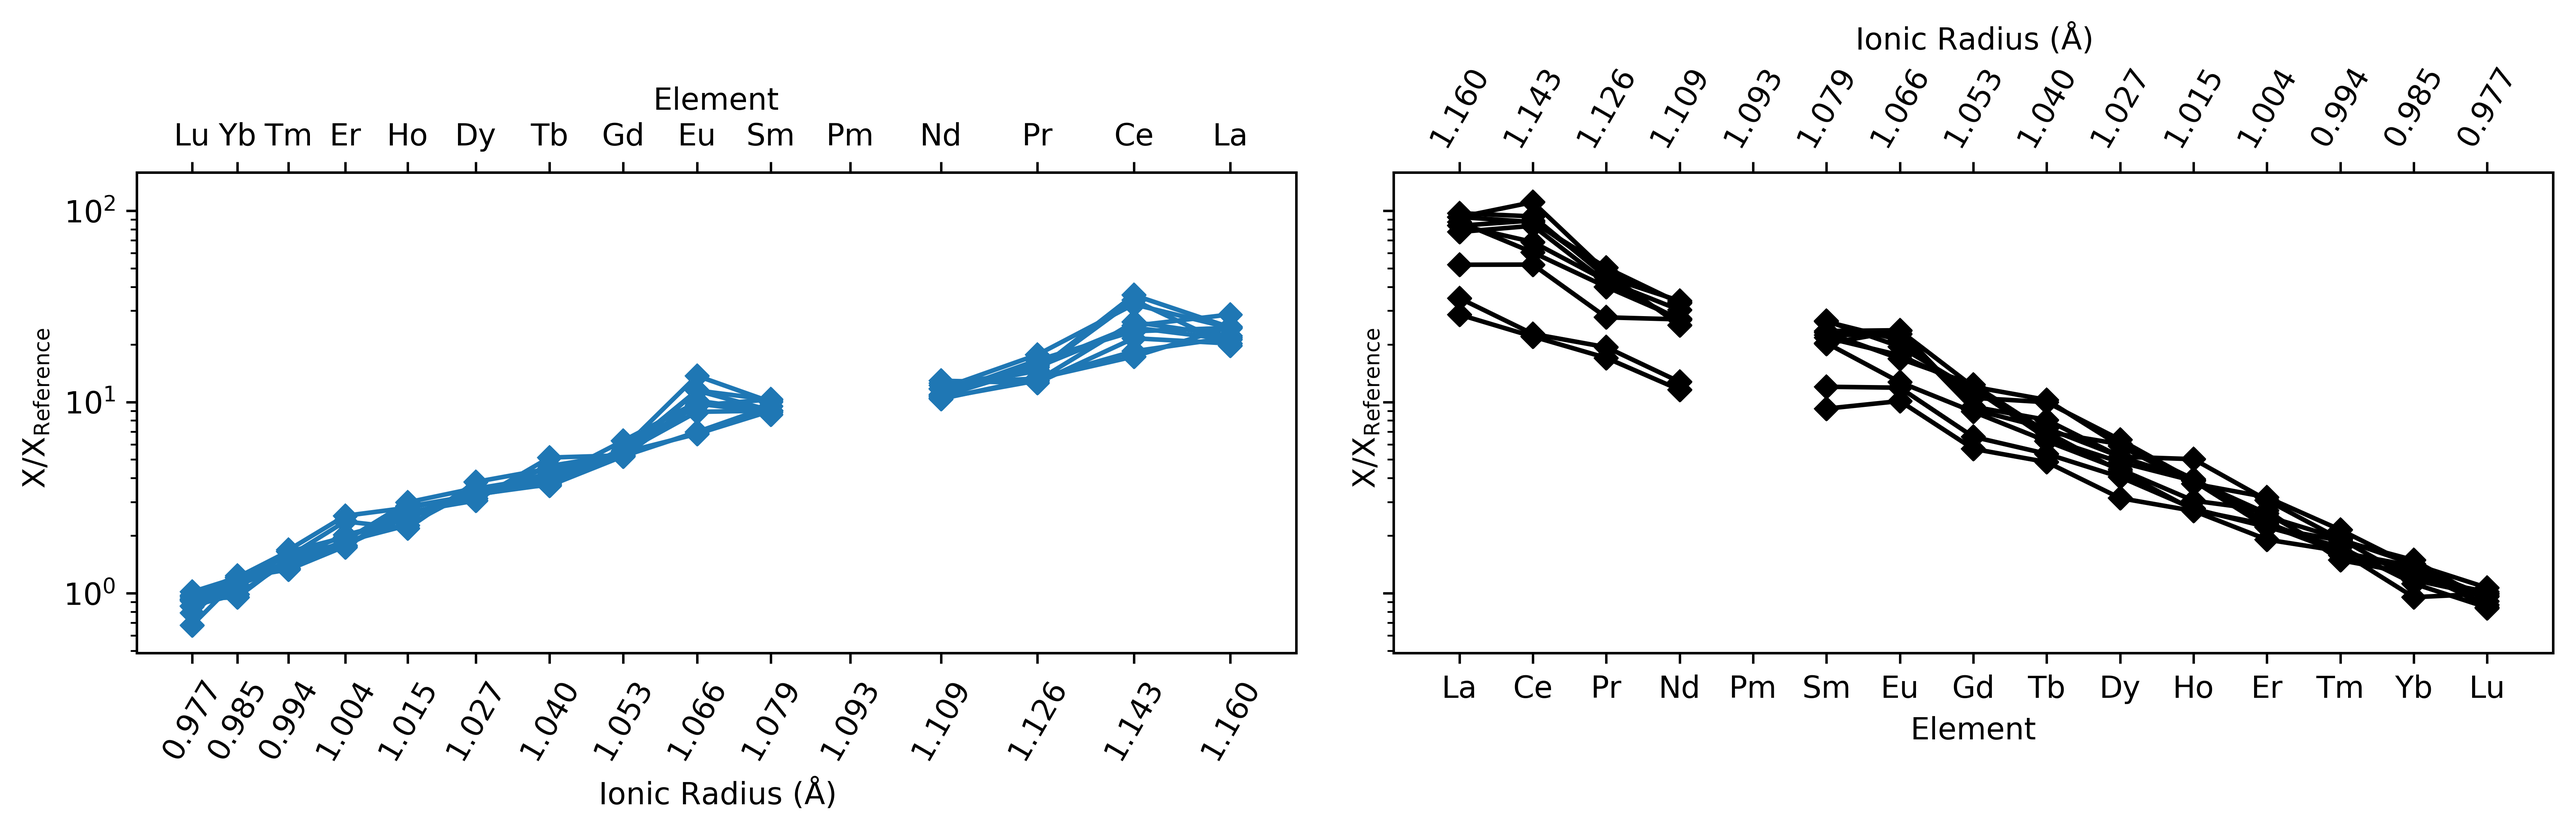
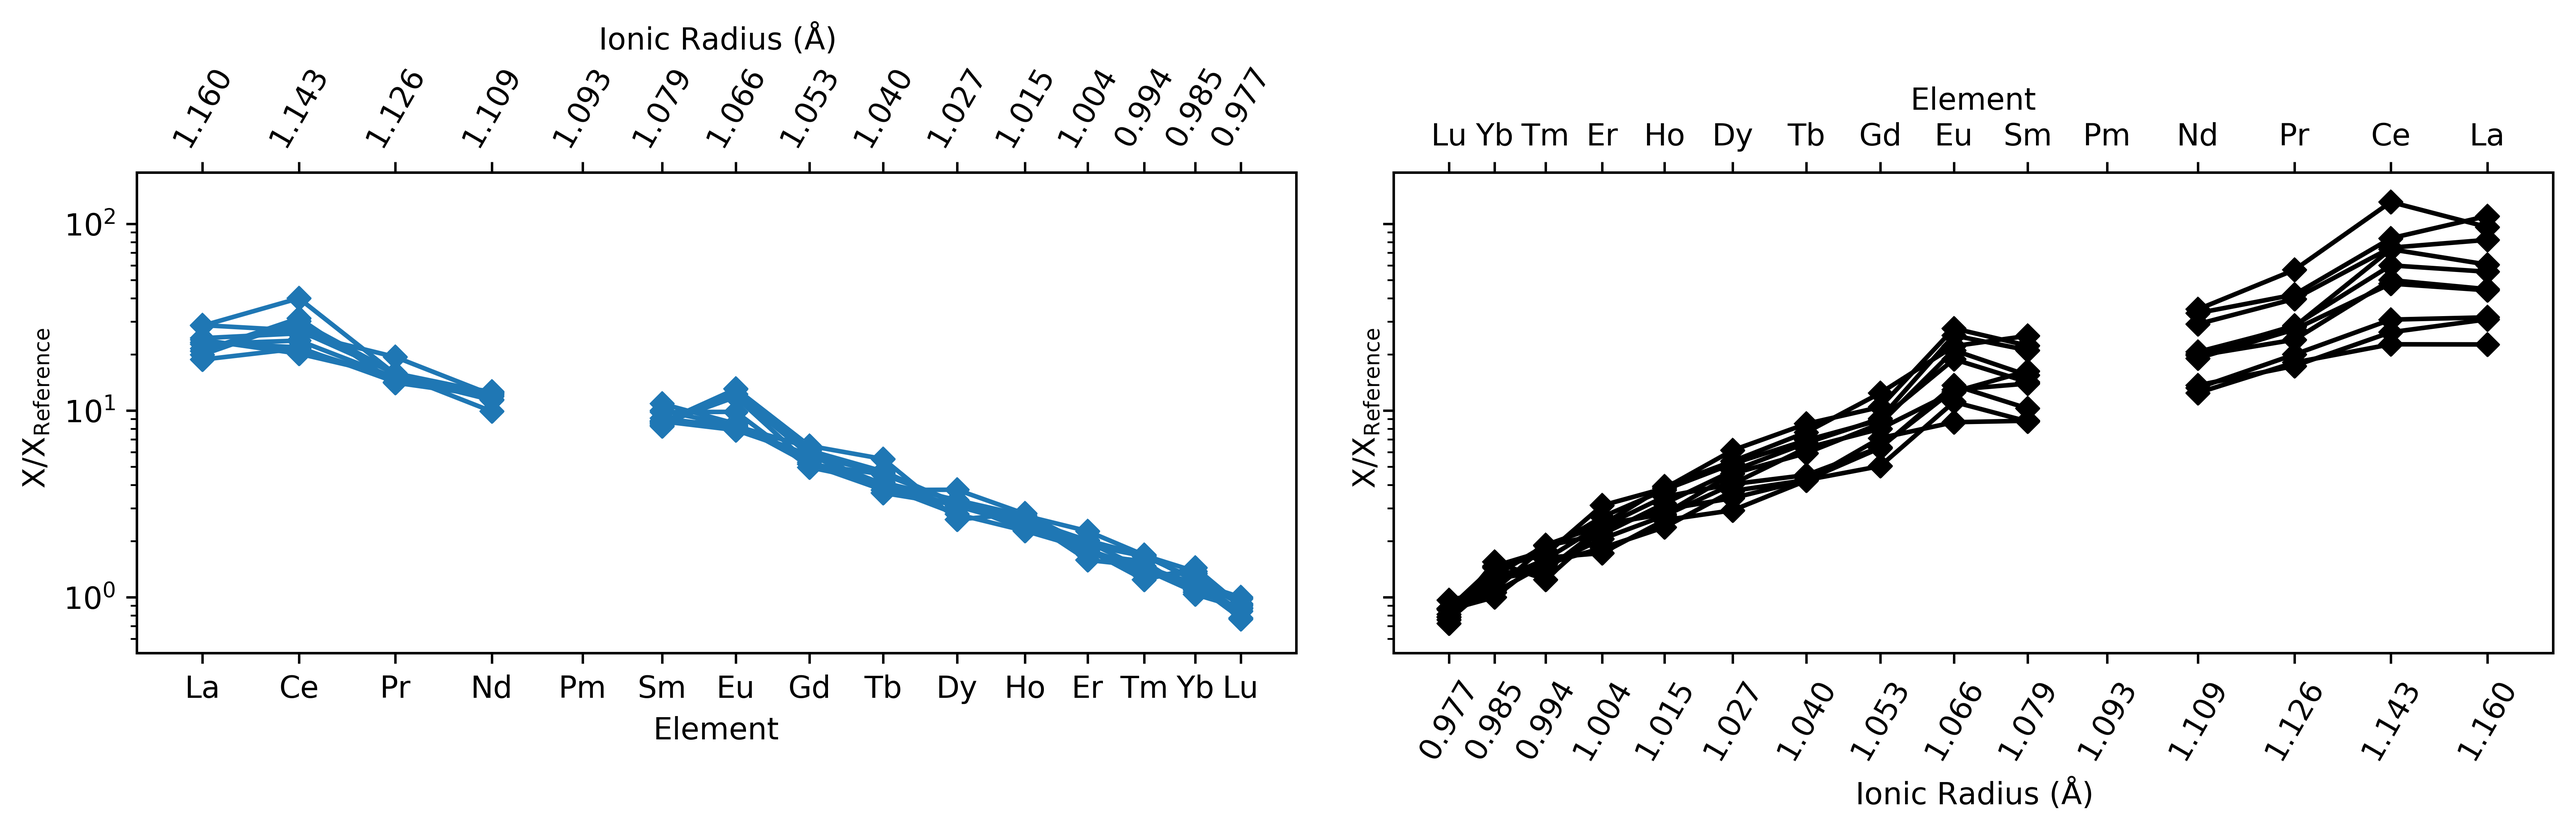
Update spider.REE_v_radii docs

diff --git a/docs/examples/plotting/REE_v_radii.py b/docs/examples/plotting/REE_v_radii.py
@@ -7,7 +7,7 @@ from pyrolite.geochem.ind import REE, get_ionic_radii
 # %% Minimal Example -------------------------------------------------------------------
 # Where data is not specified, it will return a formatted axis which can be used for
 # subsequent plotting:
-ax = REE_v_radii(mode='radii') # radii mode will put ionic radii on the x axis
+ax = REE_v_radii(index='radii') # radii mode will put ionic radii on the x axis
 
 # create some example data
 ree = REE()
@@ -72,7 +72,7 @@ fig, ax = plt.subplots(1, 2, sharey=True, figsize=(12, 4))
 
 df1.pyroplot.REE(ax=ax[0])
 # we can also change the index of the second figure
-ax1 = df2.pyroplot.REE(ax=ax[1], color='k', index='elements')
+ax1 = df2.pyroplot.REE(ax=ax[1], color='k', index='radii')
 plt.tight_layout()
 
 # %% Save Figure
